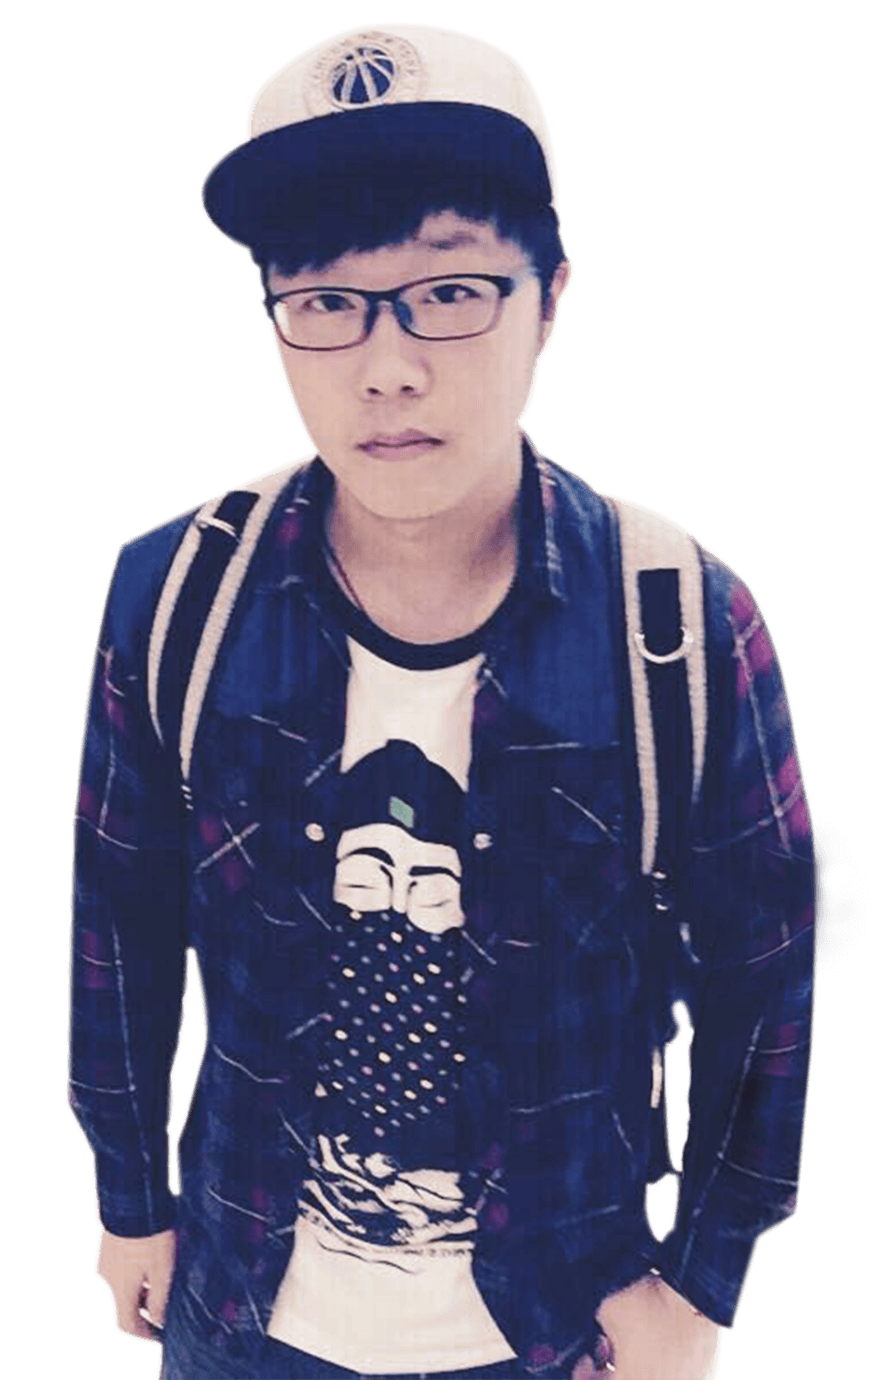
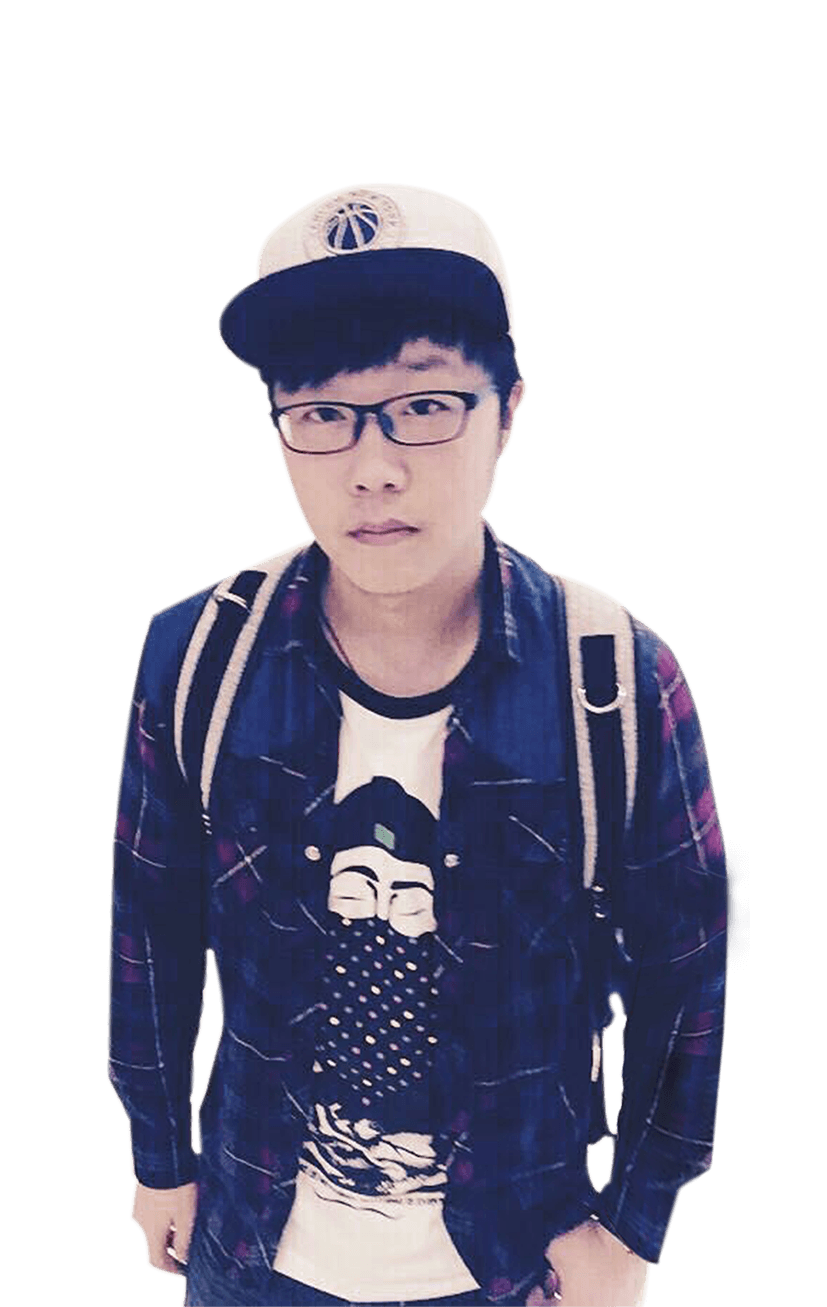
change img

diff --git a/gulpfile.js b/gulpfile.js
@@ -63,7 +63,7 @@ gulp.task("webpack", function(callback) {
 
 gulp.task('imagemin', function(){
 
-    return gulp.src("imgs/me1.png")
+    return gulp.src("imgs/mm1.png")
         .pipe(imagemin({
             progressive: true,
             use: [pngquant({quality: '65-80'})]
